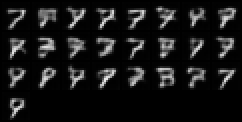
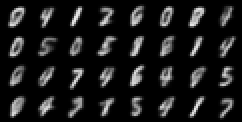
includes optimizing loss fun

diff --git a/model.py b/model.py
@@ -140,7 +140,7 @@ class VAE(pl.LightningModule):
             recon_x.view(-1, 784), x.view(-1, 784), reduction='sum')
         KLD = -0.5 * torch.sum(1 + log_var - mu.pow(2) - log_var.exp())
         pred_loss = F.nll_loss(pred_prob, y)
-        return {"BCE": BCE / 100,
+        return {"BCE": BCE / 500,
                 "KLD": KLD / 100,
                 "clf": pred_loss }
 
@@ -158,11 +158,14 @@ class VAE(pl.LightningModule):
     def validation_step(self, batch, batch_idx):
         if batch_idx == 1:
             with torch.no_grad():
-                batch_size = 25
-                sample, y = batch[0][:1], batch[1][:1]
+                batch_size = 32
+                idx = random.randint(0, batch[0].shape[0] - 1)
+                sample, y = batch[0][idx: idx + 1], batch[1][idx: idx + 1]
                 print('actual_digit:', y)
+                random_y = torch.randint(0, 9, [batch_size, ]).to(self.device)
+                print('random_y:', random_y)
                 test_batch = sample[0].expand(batch_size, 1, 28, 28).to(self.device), \
-                    torch.randint(0, 9, [batch_size, ]).to(self.device)
+                    random_y
                 reconstr, pred_prob, mu, log_var = self(*test_batch)
                 
                 save_image(

diff --git a/trainer.py b/trainer.py
@@ -10,7 +10,10 @@ if __name__ == "__main__":
     train_loader, test_loader = get_mnist_dataset()
     # vae = VAE.load_from_checkpoint(
     #     './lightning_logs/version_47/checkpoints/epoch=9-step=9380.ckpt')
-    vae = VAE(x_dim=784, h_dim1=196, z_dim=z_dim)
+    vae = VAE.load_from_checkpoint(
+        './lightning_logs/version_86/checkpoints/epoch=1-step=1876.ckpt')
+
+    # vae = VAE(x_dim=784, h_dim1=196, z_dim=z_dim)
     trainer = pl.Trainer(
         max_epochs=20,
     )
@@ -19,15 +22,3 @@ if __name__ == "__main__":
         train_dataloaders=train_loader,
         val_dataloaders=test_loader
     )
-    # with torch.no_grad():
-    #     batch_size = 25
-    #     sample = next(iter(train_loader))[:1]
-    #     print('actual_digit:', sample[1])
-    #     test_batch = sample[0][0].expand(batch_size, 1, 28, 28), \
-    #         torch.randint(0, 9, [batch_size, ])
-    #     print(test_batch[1])
-    #     reconstr, pred_prob, mu, log_var = vae(*test_batch)
-    #     
-    #     save_image(
-    #         reconstr.view(25, 1, 28, 28),
-    #         './samples/sample_' + '.png')
